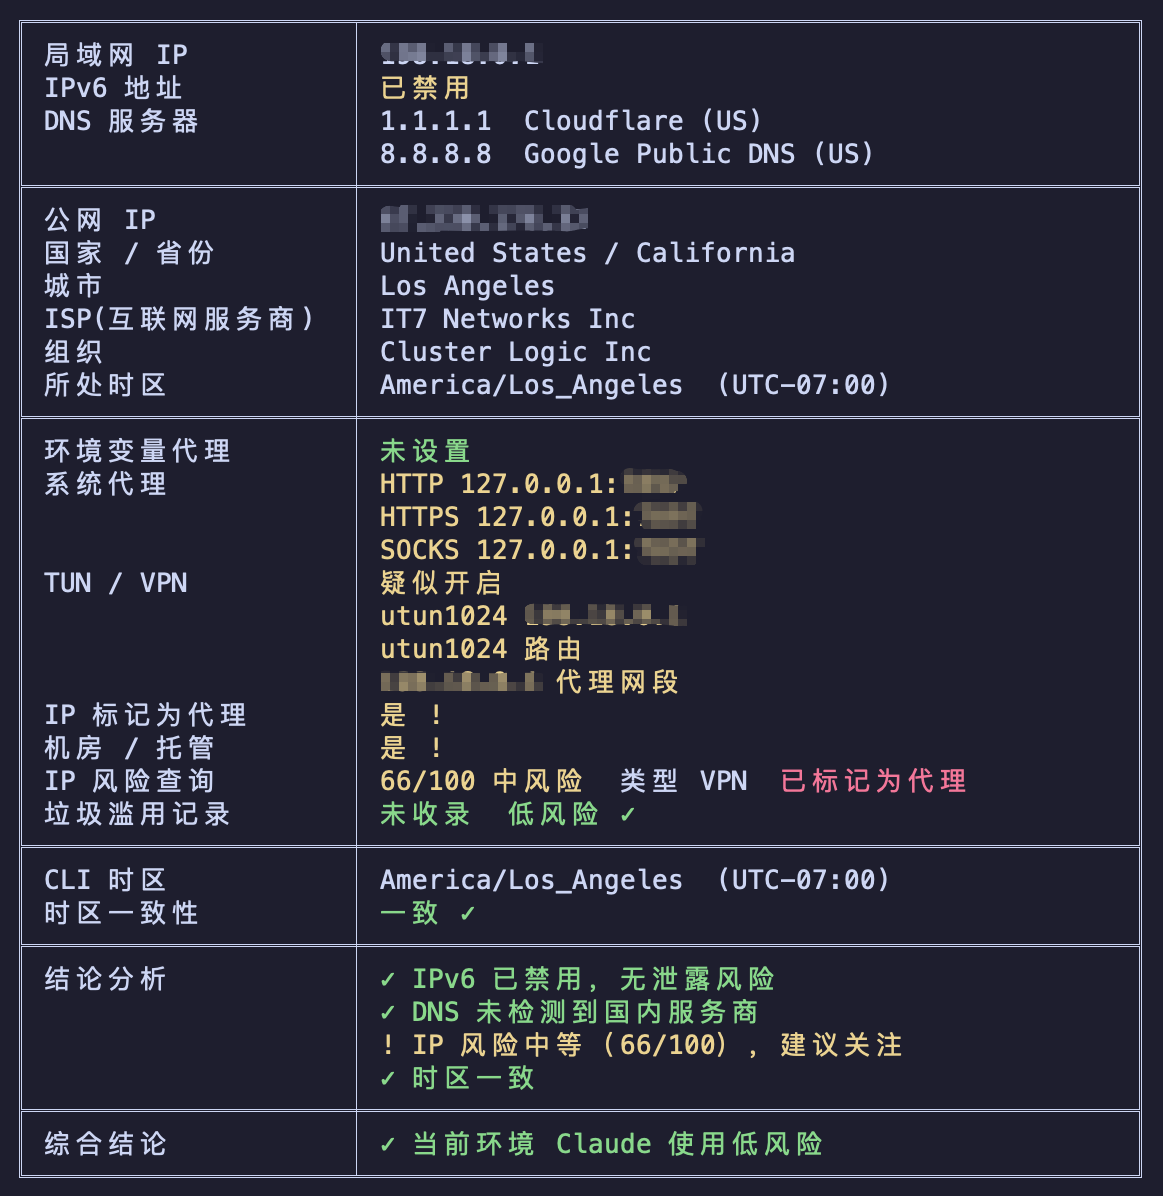
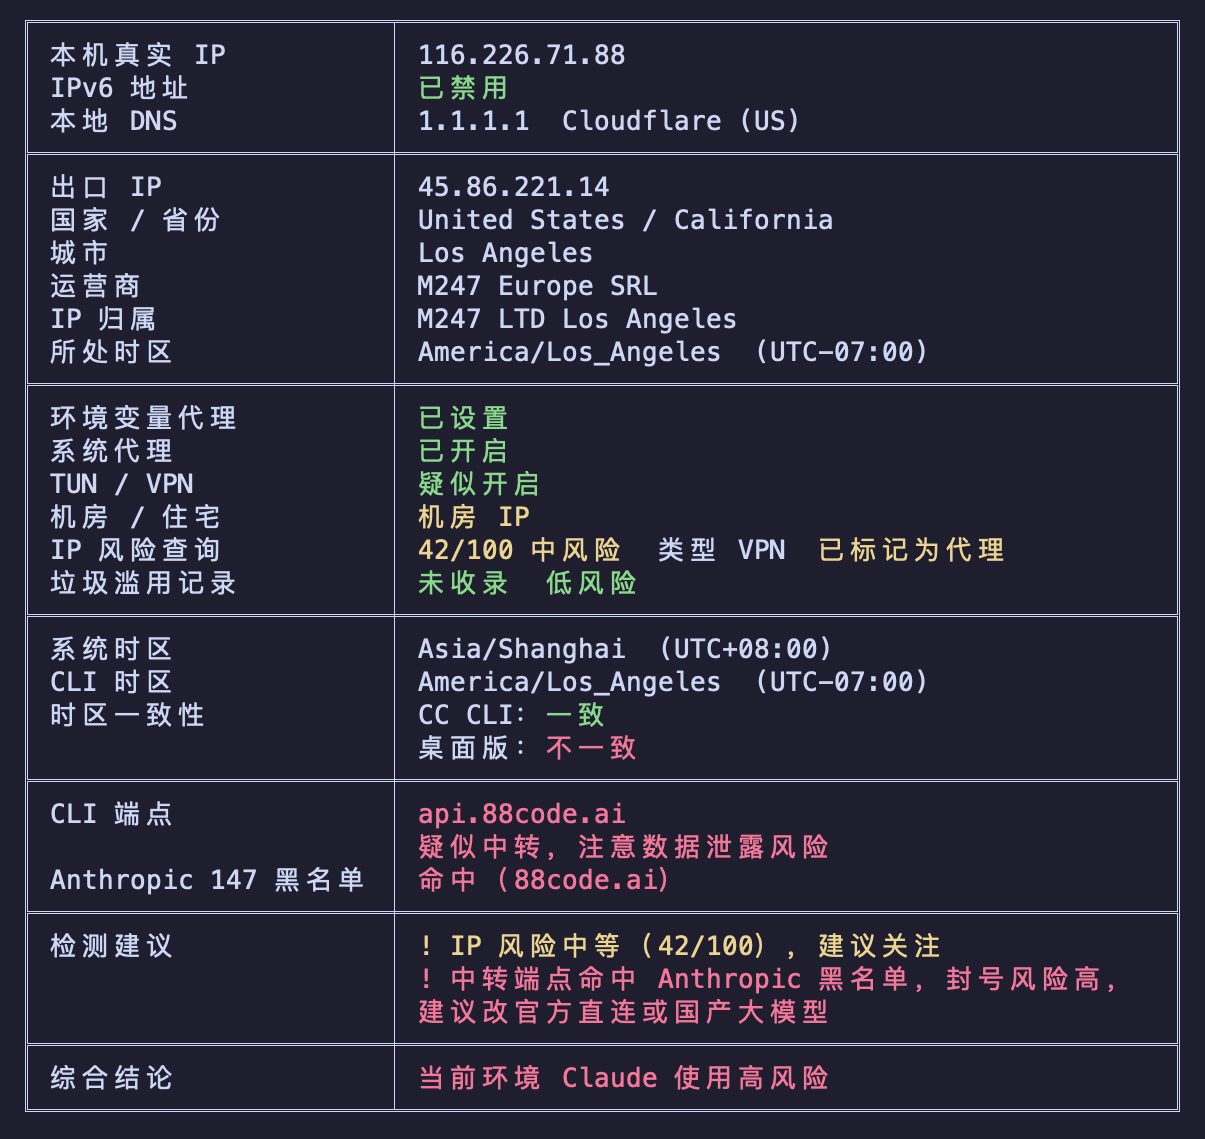
docs: README 更新至 0.3.1 面板 + 替换首屏截图
- 中英双语同步 0.3.1：Claude 端点检测、综合结论三档、字段更名（本机真实 IP/出口 IP/本地 DNS）、代理开关式展示、时区拆 CC CLI/桌面版
- screenshot.png 换成含 Claude 检测块的高风险示例面板

Changed region(s): [[0.0, 0.0, 0.9905, 0.9833], [0.681, 0.6453, 0.8358, 0.676], [0.681, 0.4609, 0.8358, 0.4917]]

diff --git a/README.md b/README.md
@@ -1,6 +1,6 @@
 # ipcheck
 
-网络环境诊断工具，一键检测 IP、DNS、代理、风控、时区，确保 AI 工具流畅运行。
+网络环境诊断工具，一键检测 IP、DNS、代理、IP 风控、时区一致性与 Claude 端点，确保 AI 工具流畅运行、规避封号。
 
 [English](./README_EN.md)
 
@@ -14,6 +14,7 @@
 - **DNS 泄露** — 使用国内 DNS 会暴露真实地理位置
 - **IP 风险过高** — 机房 IP 或被滥用的 IP 可能影响连接质量
 - **时区不一致** — 本地时区配置与 IP 所在地不匹配
+- **Claude 端点走了中转** — 第三方中转站可能泄露数据，甚至触发封号
 
 `ipcheck` 一键检测这些问题，确保你的 AI 工具流畅稳定运行，尤其 Claude 启动之前先检测下，原因你懂得，规避封号。
 
@@ -21,15 +22,14 @@
 
 | 检测项 | 说明 |
 |--------|------|
-| 局域网 IP / IPv6 | 检测本机 IP，确认 IPv6 是否已禁用 |
-| DNS 服务器 | 识别 DNS 来源（国内/国外），标注已知 DNS 服务商 |
-| 公网 IP 信息 | 出口 IP、国家、地区、ISP、运营商 |
-| 代理检测 | 环境变量代理配置、系统代理、TUN/VPN 迹象、IP 是否被标记为代理 |
-| IP 类型 | 住宅 IP / 机房 IP 识别 |
-| IP 风险评分 | 通过 proxycheck.io 查询风险分数 |
-| 滥用记录 | 通过 StopForumSpam 查询 IP 是否被举报 |
-| 时区一致性 | 对比本地 CLI 时区与公网 IP 所在时区是否匹配 |
-| 综合结论 | 汇总各项风险，一句话判断当前环境 Claude 使用风险高低 |
+| 本机真实 IP / IPv6 | 经国内直连回显拿到真实公网 IP（即使开着 VPN/TUN 也能露出真实 ISP 出口），并确认 IPv6 是否已禁用 |
+| 本地 DNS | 识别 DNS 来源（国内 / 国外），标注已知 DNS 服务商 |
+| 出口 IP 信息 | 出口（代理后）IP、国家 / 地区、城市、运营商、IP 归属、时区 |
+| 代理检测 | 环境变量代理、系统代理、TUN/VPN 的开关状态 |
+| IP 类型与风险 | 机房 / 住宅识别、proxycheck.io 风险评分、StopForumSpam 滥用记录、是否被标记为代理 |
+| 时区一致性 | 系统时区与 CLI 时区（全 IANA），分别按 CC CLI（认 `$TZ`）和桌面版（走系统时区）比对出口 IP 时区 |
+| Claude 端点检测 | 识别 Claude Code 端点是官方直连 / 国产大模型 / 第三方中转；中转会提示数据泄露与封号风险，并比对已知端点黑名单 |
+| 综合结论 | 汇总各项风险，一句话判定当前环境 Claude 使用为高 / 中 / 低风险 |
 
 ## 安装
 
@@ -56,17 +56,19 @@ ipcheck
 
 ## 结果说明
 
-**局域网 & DNS** — IPv6 建议禁用，大部分代理不处理 IPv6 流量，开启后可能同时暴露两个不同地区的 IP 地址。如果检测到国内 DNS，需要在代理软件中调整 DNS 设置。
+**本机真实 IP & DNS** — 本机真实 IP 经国内直连回显获取，即使开着 VPN/TUN 也能露出真实 ISP 出口，用于确认真实身份是否泄露。IPv6 建议禁用，大部分代理不处理 IPv6 流量，开启后可能同时暴露两个不同地区的 IP。若检测到国内 DNS，需要在代理软件中调整 DNS 设置。
 
-**公网 IP 信息** — 显示经过代理后的出口 IP、所在国家/地区、ISP 和时区。这些信息直接影响 AI 服务对你请求来源的判断。
+**出口 IP 信息** — 显示经过代理后的出口 IP、所在国家/地区、运营商、IP 归属和时区。这些信息直接影响 AI 服务对你请求来源的判断。
 
-**代理检测** — `ipcheck` 会同时展示环境变量代理、macOS 系统代理和 TUN/VPN 迹象。系统代理只代表系统配置状态，不等于所有 CLI 流量都会继承；Codex、Claude Code 等带沙箱或独立网络栈的工具，可能需要显式设置 `HTTP_PROXY` / `HTTPS_PROXY`，或者开启 TUN 模式兜底。
+**代理检测** — `ipcheck` 会展示环境变量代理、系统代理和 TUN/VPN 的开关状态。系统代理只代表系统配置状态，不等于所有 CLI 流量都会继承；Codex、Claude Code 等带沙箱或独立网络栈的工具，可能需要显式设置 `HTTP_PROXY` / `HTTPS_PROXY`，或者开启 TUN 模式兜底。
 
 **IP 风险评估** — 检测 IP 是住宅还是机房类型。机房 IP 不一定有问题，但会进一步查询风险评分和滥用记录。如果风险评分偏高，建议更换节点。
 
-**时区一致性** — 对比本地 `$TZ` 环境变量（或系统时区）与公网 IP 所在时区。保持一致可以获得更好的服务体验。建议在 shell 配置中设置 `TZ` 为与 IP 所在地匹配的 IANA 时区（如 `America/Los_Angeles`）。
+**时区一致性** — 分两条比对：**CC CLI** 比对 CLI 时区（认 `$TZ`）与出口 IP 时区，**桌面版** 比对系统时区（不认 `$TZ`）与出口 IP 时区。Claude Code CLI 认 `$TZ`，可在 shell 或 `~/.claude/settings.json` 的 `env` 里把 `TZ` 设为与出口 IP 匹配的 IANA 时区（如 `America/Los_Angeles`）；Claude 桌面版走系统时区，需改系统设置。
 
-**综合结论** — 报告末尾会汇总 IPv6、DNS、IP 风险、时区四项，给出一句话定论：当前环境 Claude 使用是「低风险」还是「高风险」。建议启动 Claude 前先看这一行。
+**Claude 端点检测** — 读取 Claude Code 的 `ANTHROPIC_BASE_URL`，判断是官方直连、国产大模型（不经 Anthropic，无封号风险），还是第三方中转（提示「疑似中转，注意数据泄露风险」），并比对已知端点黑名单，命中会拉高综合风险。
+
+**综合结论** — 报告末尾单独成块，汇总各项给出一句话定论：当前环境 Claude 使用为「低 / 中 / 高风险」。建议启动 Claude 前先看这一行。
 
 ## License
 

diff --git a/README_EN.md b/README_EN.md
@@ -14,6 +14,7 @@ To ensure AI tools like Claude Code, OpenAI API, and Cursor run smoothly and rel
 - **DNS leakage** — Local DNS servers can reveal your true location to AI services
 - **High-risk IP** — Datacenter IPs or abused IPs may affect connection quality
 - **Timezone mismatch** — Inconsistency between local timezone and IP geolocation
+- **Endpoint routed through a relay** — Third-party relay endpoints may leak your data and even trigger account bans
 
 `ipcheck` detects all these issues in one run, ensuring your AI tools run smoothly and stably.
 
@@ -21,15 +22,14 @@ To ensure AI tools like Claude Code, OpenAI API, and Cursor run smoothly and rel
 
 | Check Item | Description |
 |------------|-------------|
-| LAN IP / IPv6 | Detect local IP, verify if IPv6 is disabled |
-| DNS Servers | Identify DNS origin (domestic/foreign), label known DNS providers |
-| Public IP Info | Exit IP, country, region, ISP, organization |
-| Proxy Detection | Env proxy settings, system proxy, TUN/VPN signals, whether IP is flagged as proxy |
-| IP Type | Residential vs. datacenter IP identification |
-| IP Risk Score | Risk scoring via proxycheck.io |
-| Abuse Records | IP abuse lookup via StopForumSpam |
-| Timezone Consistency | Compare local CLI timezone with public IP geolocation timezone |
-| Overall Verdict | Aggregates all checks into a one-line risk assessment for running Claude |
+| Real Public IP / IPv6 | Reveals your real public IP via a domestic direct-connect echo (exposes your true ISP exit even with VPN/TUN on), and verifies whether IPv6 is disabled |
+| Local DNS | Identify DNS origin (domestic/foreign), label known DNS providers |
+| Exit IP Info | Exit (post-proxy) IP, country/region, city, ISP, IP ownership, timezone |
+| Proxy Detection | On/off status of env proxy, system proxy, and TUN/VPN |
+| IP Type & Risk | Datacenter/residential detection, proxycheck.io risk score, StopForumSpam abuse records, whether flagged as proxy |
+| Timezone Consistency | System timezone and CLI timezone (all IANA), compared against the exit IP timezone for both CC CLI (honors `$TZ`) and the desktop app (uses system timezone) |
+| Claude Endpoint Check | Detects whether the Claude Code endpoint is official-direct / a domestic LLM / a third-party relay; relays are flagged for data-leak and ban risk and matched against a known-endpoint blacklist |
+| Overall Verdict | Aggregates all checks into a one-line assessment: high / medium / low risk for running Claude |
 
 ## Install
 
@@ -50,17 +50,19 @@ ipcheck
 
 ## Understanding the Results
 
-**LAN & DNS** — Disable IPv6 if possible. Most proxies don't handle IPv6 traffic, which may expose two IPs from different regions simultaneously. If a domestic DNS is detected, adjust DNS settings in your proxy software.
+**Real Public IP & DNS** — The real public IP is obtained via a domestic direct-connect echo, exposing your true ISP exit even with VPN/TUN on, so you can tell whether your real identity leaks. Disable IPv6 if possible — most proxies don't handle IPv6 traffic, which may expose two IPs from different regions at once. If a domestic DNS is detected, adjust DNS settings in your proxy software.
 
-**Public IP Info** — Shows your exit IP after proxy, including country/region, ISP, and timezone. These directly affect how AI services evaluate your request origin.
+**Exit IP Info** — Shows your exit IP after proxy, including country/region, ISP, IP ownership, and timezone. These directly affect how AI services evaluate your request origin.
 
-**Proxy Detection** — `ipcheck` reports environment proxy variables, macOS system proxy settings, and TUN/VPN signals. System proxy status only describes OS configuration; it does not guarantee every CLI process inherits that proxy. Tools with sandboxing or separate network behavior, such as Codex or Claude Code, may need explicit `HTTP_PROXY` / `HTTPS_PROXY` settings, or TUN mode as a fallback.
+**Proxy Detection** — `ipcheck` reports the on/off status of environment proxy variables, system proxy, and TUN/VPN. System proxy status only describes OS configuration; it does not guarantee every CLI process inherits that proxy. Tools with sandboxing or separate network behavior, such as Codex or Claude Code, may need explicit `HTTP_PROXY` / `HTTPS_PROXY` settings, or TUN mode as a fallback.
 
 **IP Risk Assessment** — Identifies whether your IP is residential or datacenter. Datacenter IPs aren't necessarily problematic, but the tool will query risk scores and abuse records. Switch nodes if your risk score is high.
 
-**Timezone Consistency** — Compares your local `$TZ` environment variable (or system timezone) with the public IP's timezone. Keeping them consistent ensures a better service experience. Set `TZ` in your shell config to match your IP's IANA timezone (e.g., `America/Los_Angeles`).
+**Timezone Consistency** — Two comparisons: **CC CLI** compares the CLI timezone (honors `$TZ`) against the exit IP timezone, while **desktop app** compares the system timezone (ignores `$TZ`) against it. Claude Code CLI honors `$TZ`, so set `TZ` in your shell or in the `env` block of `~/.claude/settings.json` to an IANA timezone matching your exit IP (e.g., `America/Los_Angeles`); the Claude desktop app uses the system timezone, which must be changed in system settings.
 
-**Overall Verdict** — At the end of the report, `ipcheck` aggregates the IPv6, DNS, IP risk, and timezone checks into a single bottom line: whether your current environment is low-risk or high-risk for running Claude. Check this line before launching Claude.
+**Claude Endpoint Check** — Reads Claude Code's `ANTHROPIC_BASE_URL` to determine whether it is official-direct, a domestic LLM (does not go through Anthropic, no ban risk), or a third-party relay (flagged as "suspected relay, watch for data leakage"), and matches it against a known-endpoint blacklist — a hit raises the overall risk.
+
+**Overall Verdict** — At the end of the report, in its own block, `ipcheck` aggregates all checks into a single bottom line: whether your current environment is low / medium / high risk for running Claude. Check this line before launching Claude.
 
 ## License
 